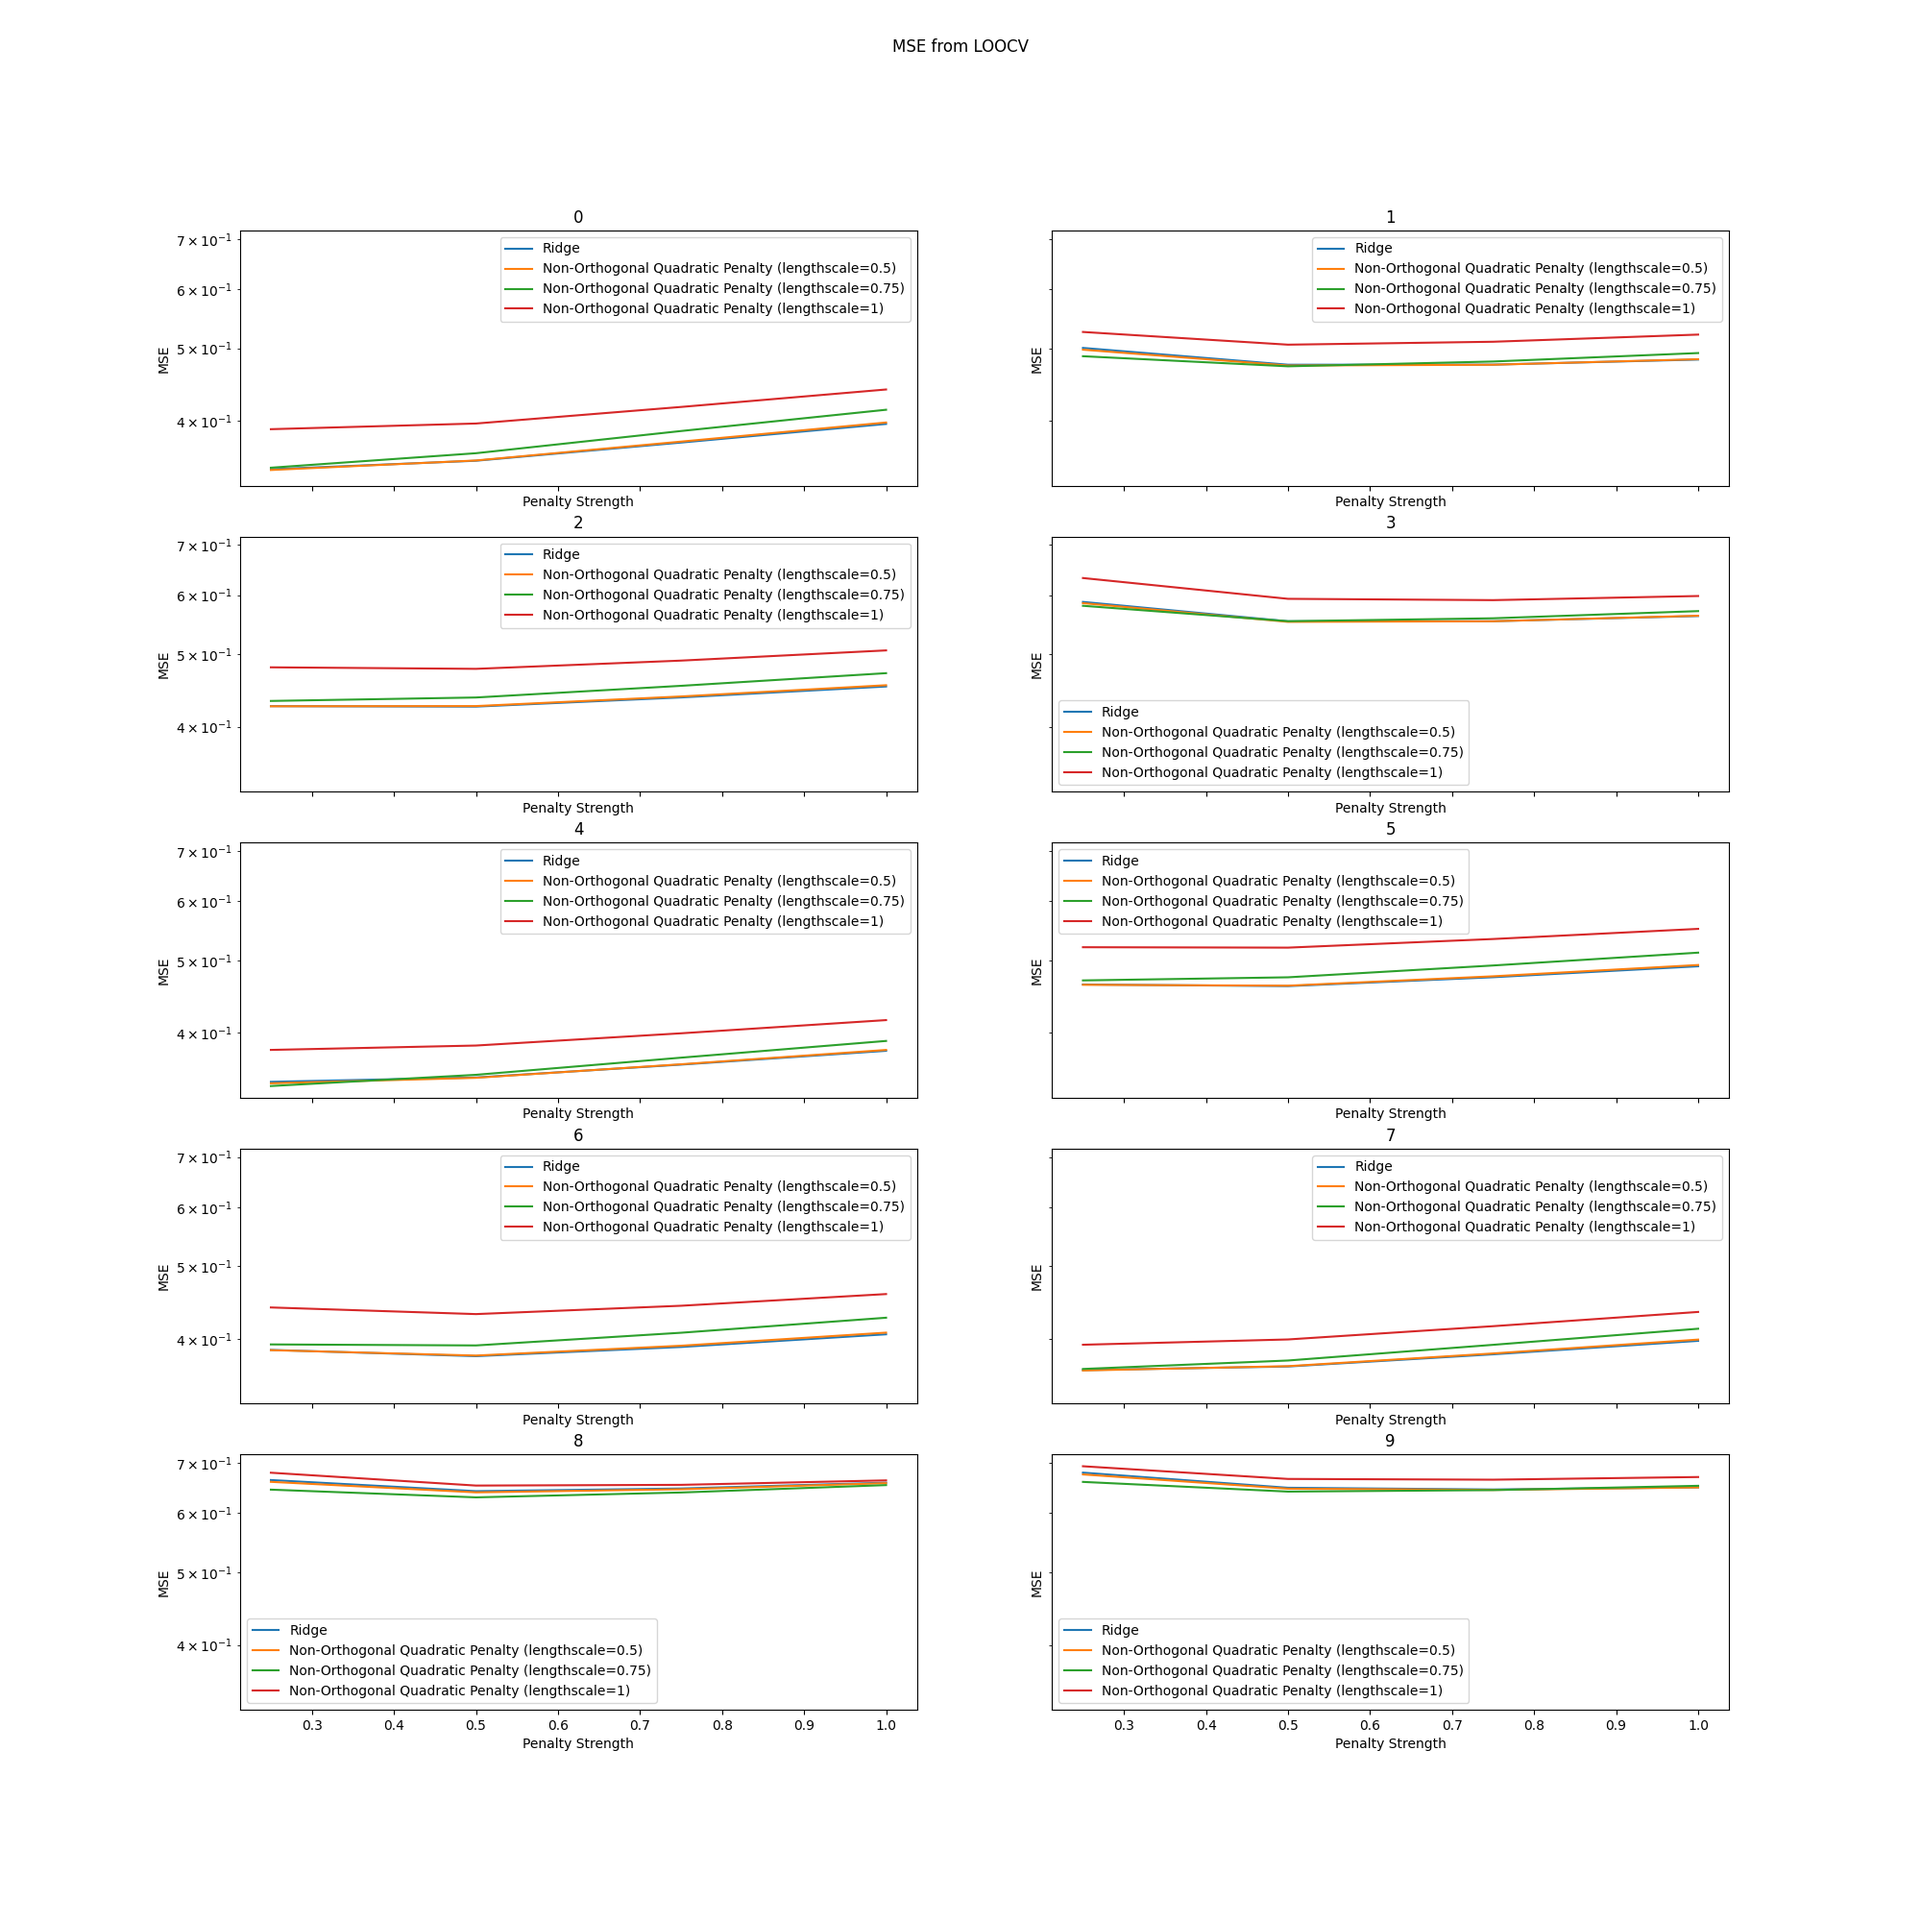
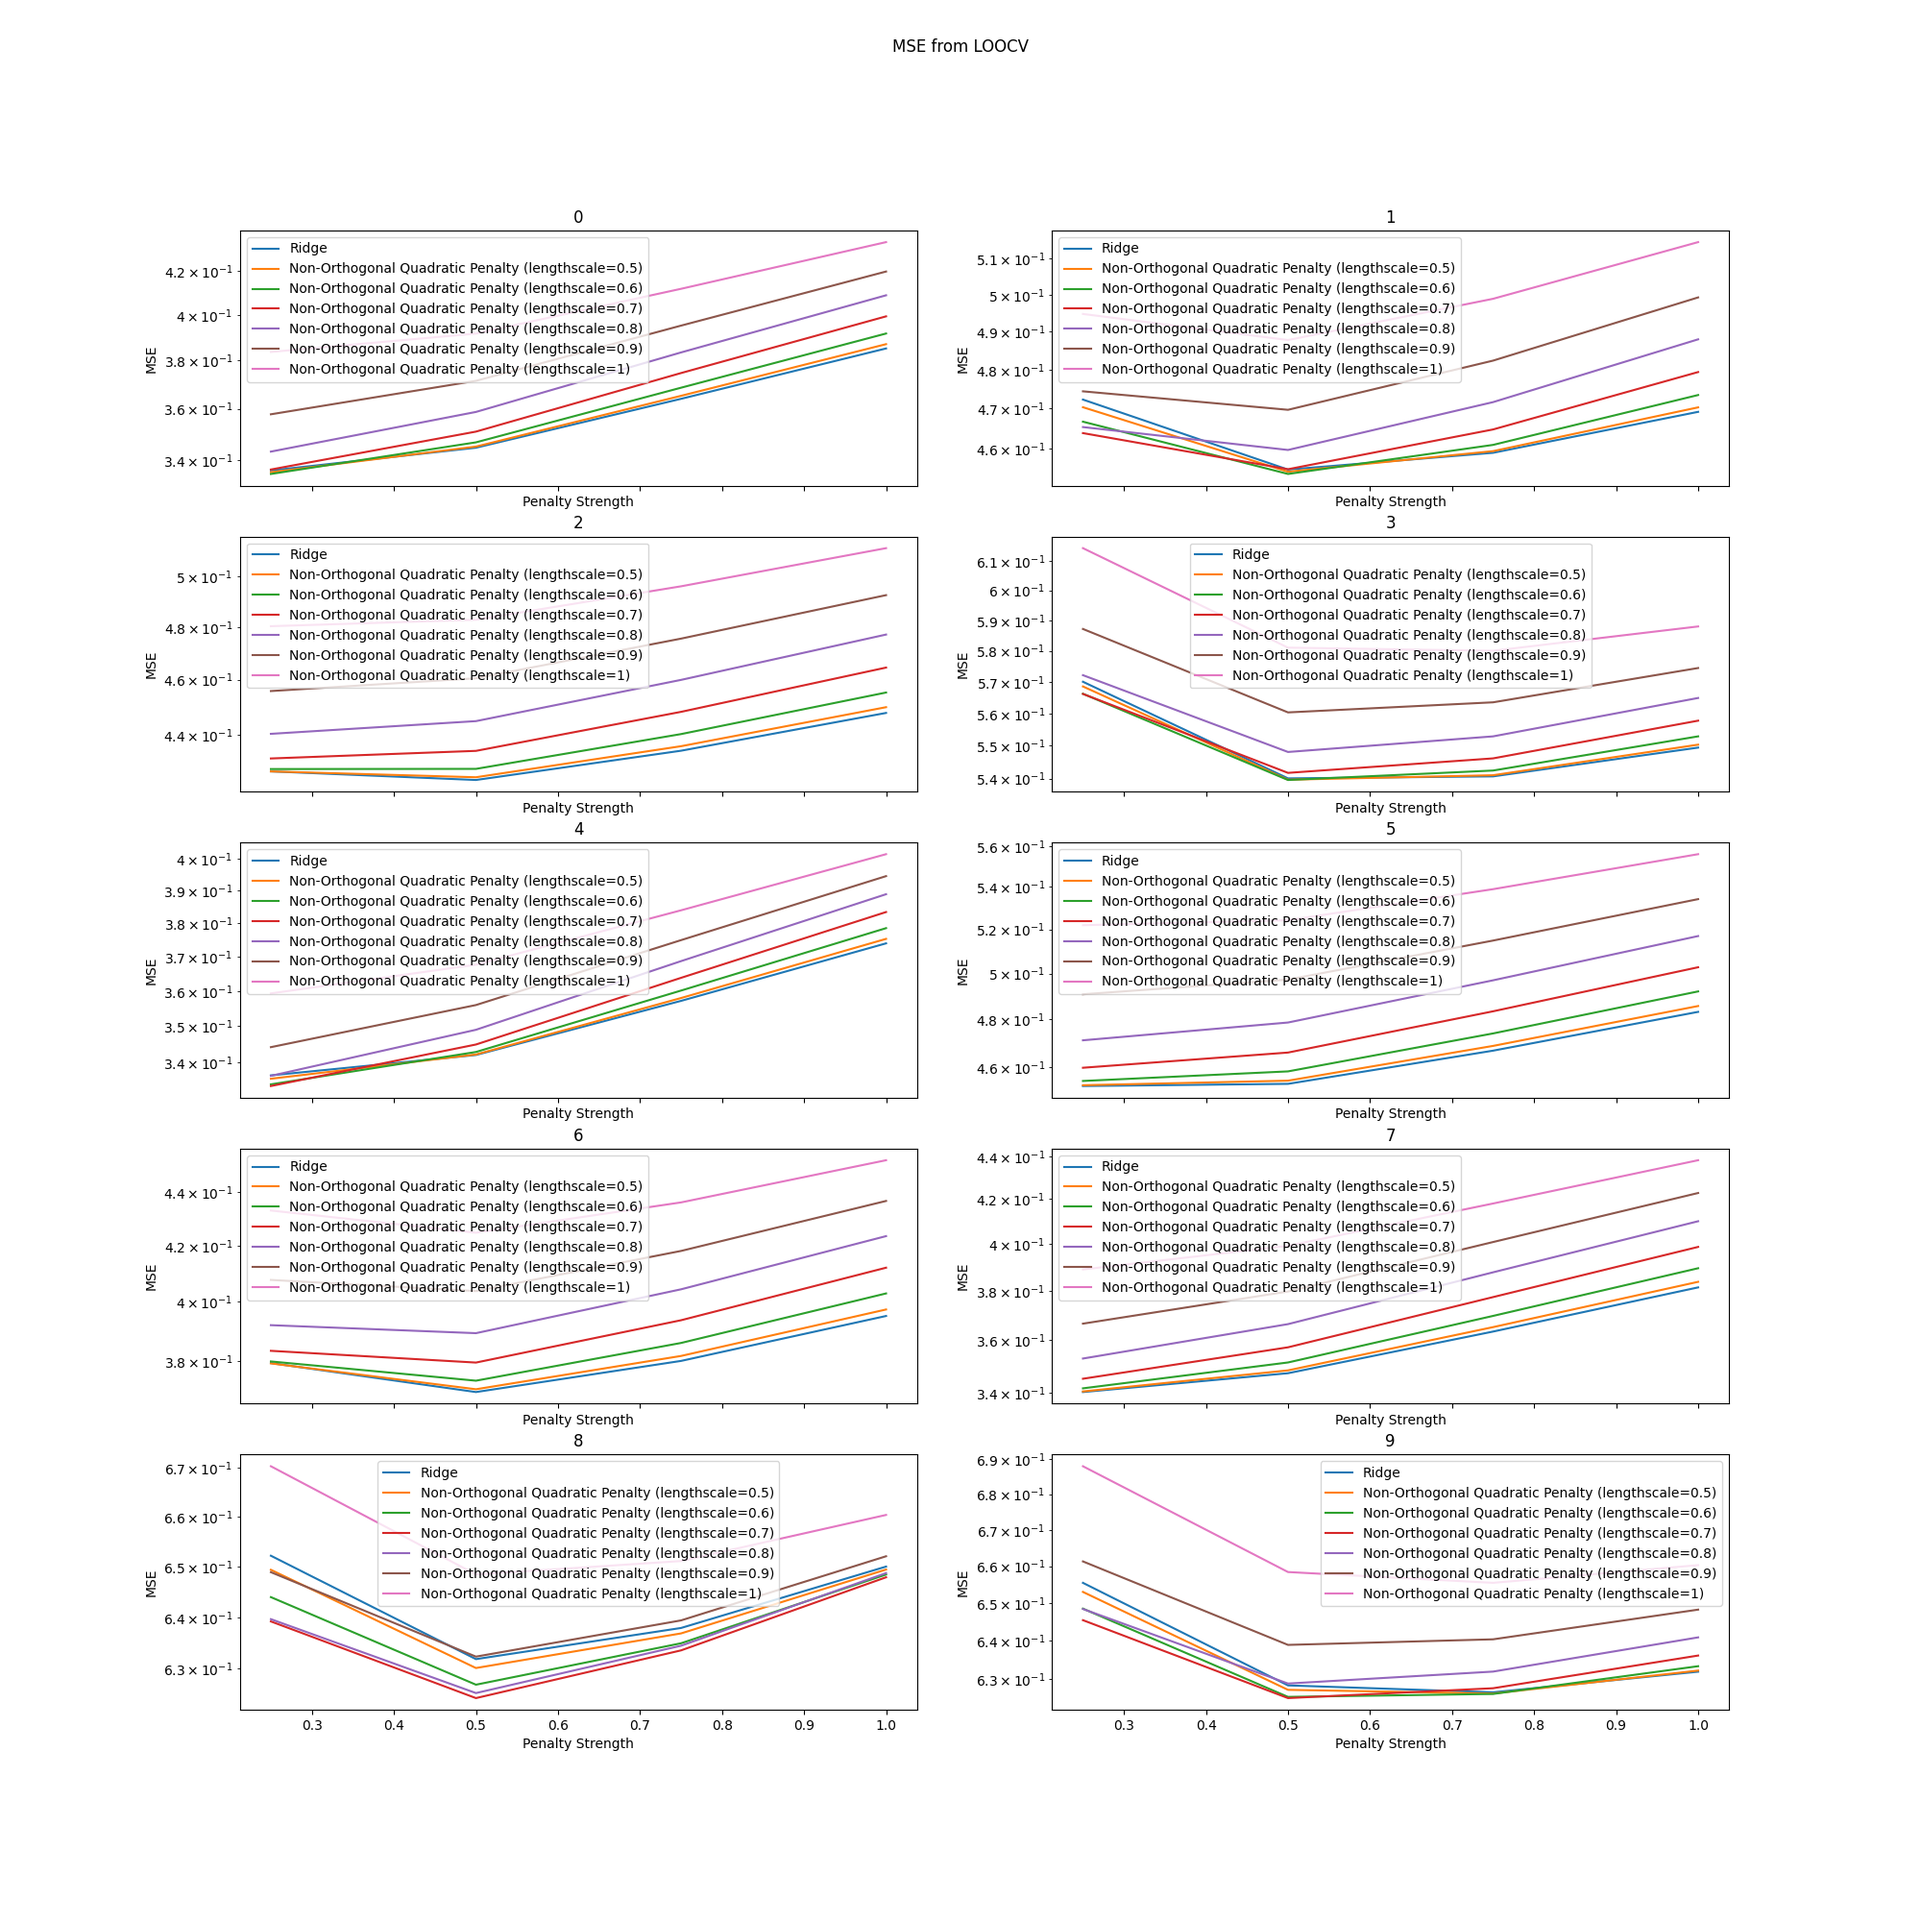
Decoupled y-axes in figure

diff --git a/demo.py b/demo.py
@@ -46,7 +46,7 @@ def loocv_mse(X, y, penalty = None):
     return np.mean([loocv_residual(i)**2 for i in range(len(y))])
 
 if __name__ == '__main__':
-    fig, ax = plt.subplots(5,2, sharex=True, sharey=True)
+    fig, ax = plt.subplots(5,2, sharex=True)
     fig.suptitle('MSE from LOOCV')
 
     chunks = [slice(30*i,30*(i+1)) for i in range(len(y)//30)]
@@ -66,7 +66,7 @@ if __name__ == '__main__':
         ridge = [np.mean([loocv_mse(*one_hot(key, idx), strength*ridge_penalty) for idx in chunks]) for strength in tqdm.tqdm(penalty_strengths)]
         f.plot(penalty_strengths, ridge, label='Ridge')
 
-        for lengthscale in (0.5,0.75,1):
+        for lengthscale in (0.5,0.6,0.7,0.8,0.9,1):
             print(f'Off-diagonal Penalty, {lengthscale=}')
             offdiagonal_penalty = np.array([[np.exp(-((x1-x2)**2+(y1-y2)**2)/lengthscale**2) for x1 in range(8) for y1 in range(8)] for x2 in range(8) for y2 in range(8)])
             offdiagonal = [np.mean([loocv_mse(*one_hot(key, idx), strength*offdiagonal_penalty) for idx in chunks]) for strength in tqdm.tqdm(penalty_strengths)]
